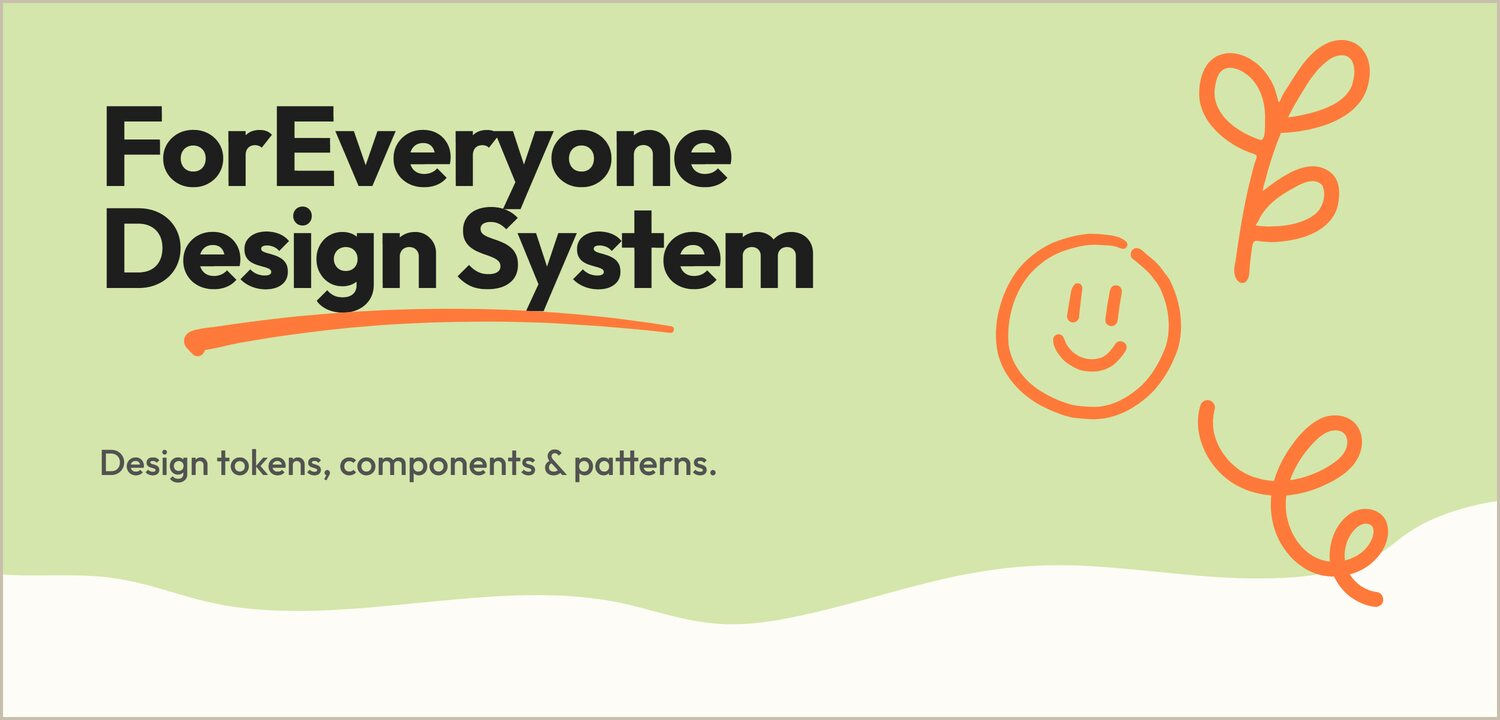
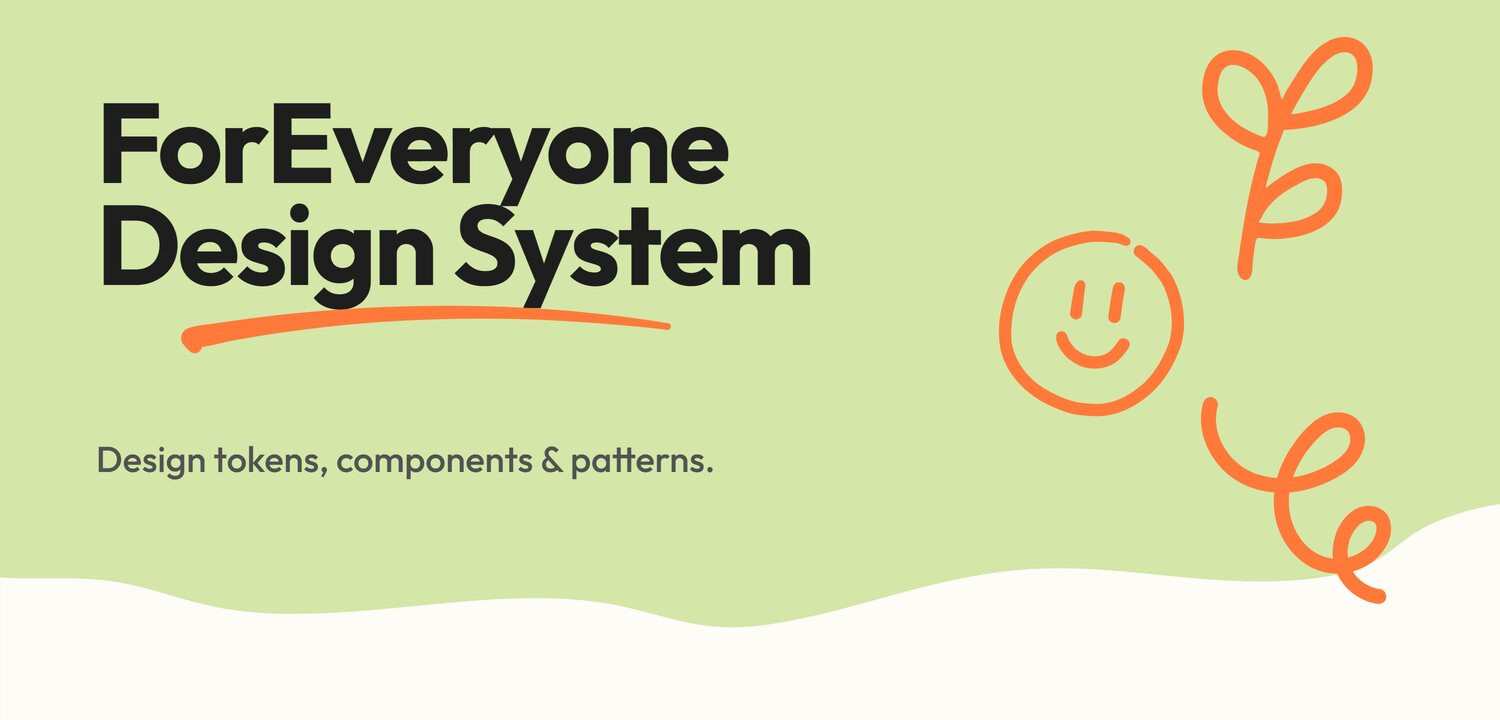
revert: drop the inset border from the README hero card
Rolls back the border baked into the 1500px hero cards and the generator gate that
applied it, restoring the borderless composition. Reverts 0997486 and ceeca89.

diff --git a/prototype/public/images/ASSETS.md b/prototype/public/images/ASSETS.md
@@ -23,7 +23,7 @@ Recommended alt text (one sentence; describe activity and setting):
 - `workshop-pottery.jpg` Upcoming-workshop card (Arts and Crafts): from `Pottery_group.jpg`, cropped to 720×450 (mozjpeg q80).
 - `workshop-drawing.jpg` Upcoming-workshop card (Expression): from `Pottery_couple1.jpg`, cropped to 640×400 with a small tone lift (mozjpeg q82).
 - `social-preview.jpg` Open Graph / Twitter / GitHub social card, `doodle-v1` composition: "ForEveryone Design System" over a Lime Green field, an orange doodle underline, sprout/smiley/swirl marks on the right, a Warm White wave band, at 1200x630 (1.91:1) per OG best practice (~53 KB). No wordmark lockup: the headline already carries the brand name. Also upload this file as the GitHub repo social preview (Settings → General → Social preview).
-- `readme-hero.jpg` README hero on GitHub, same composition at 1500x720 (~2.08:1, ~69 KB). Carries a 3px inset Warm Grey Light border so the card separates from GitHub's white page, where the Warm White wave band along its bottom edge would otherwise dissolve into the background; the border is applied in the generator to every target at least 1500px wide, so the 1200px social card deliberately has none (GitHub strips `style` from markdown-embedded HTML, so it cannot be a CSS border on the `<img>`). Regenerate both cards (design-system-driven HTML rendered with Chromium) via `node scripts/build-og-card.mjs [variant] [outDir]`, then convert the temp PNGs to JPG with ImageMagick (`-resize`, `-quality 84 -strip`). Variants: `doodle` (shipped composition), `blobs` (default flag value, layered brand blobs with a swatch row), `ramp` (OKLCH token scales), `type` (type-scale specimen). Colours are read from the generated `css/custom-properties.css`, so a token change flows into the cards; never hardcode hex in the generator.
+- `readme-hero.jpg` README hero on GitHub, same composition at 1500x720 (~2.08:1, ~63 KB). Regenerate both cards (design-system-driven HTML rendered with Chromium) via `node scripts/build-og-card.mjs [variant] [outDir]`, then convert the temp PNGs to JPG with ImageMagick (`-resize`, `-quality 84 -strip`). Variants: `doodle` (shipped composition), `blobs` (default flag value, layered brand blobs with a swatch row), `ramp` (OKLCH token scales), `type` (type-scale specimen). Colours are read from the generated `css/custom-properties.css`, so a token change flows into the cards; never hardcode hex in the generator.
 
 - `guide-og-doodle.jpg` Open Graph / social card for the **Belonging Guide** funnel pages on foreveryone.berlin (`/guide`, `/guide-confirmed`), at 1200x630 (~36 KB). Lime Green field, "Belonging in Berlin" over an orange doodle underline, sprout/smiley/swirl marks on the right, Warm White wave band with the horizontal lockup. This is a **website** card, not a design-system card: it is tracked here so the funnel pages have a reviewed source, but it does not replace `social-preview.jpg`. Regenerate with `node prototype/scripts/build-guide-og.mjs [doodle|photo|blobs|all] [outDir]`; output defaults to the gitignored `.artifacts/images/`. Copy deck lives in the `COPY` object at the top of that script. Renders in Outfit, the documented Filson Pro stand-in.
 
